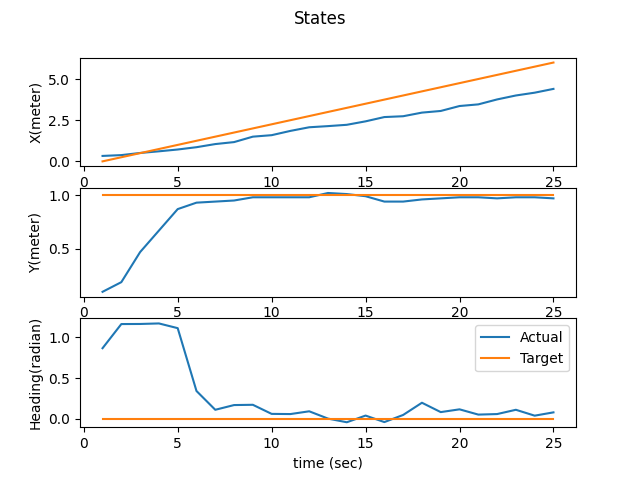
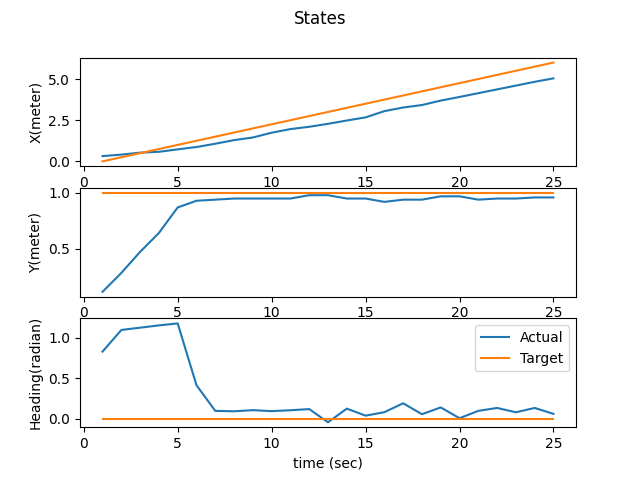
-

diff --git a/Project/Line/line_tracking_pwm_sl.py b/Project/Line/line_tracking_pwm_sl.py
@@ -30,7 +30,7 @@ sqrt=math.sqrt
 #x_target=1.1+0.7*sin((2*pi/200)*t_tra);
 #y_target=0.9+0.7*sin((4*pi/200)*t_tra);
 #theta_target=np.unwrap(atan2(2*pi*cos((pi*t_tra)/50), pi*cos((pi*t_tra)/100)));
-x_target=0.25*t_tra;
+x_target=0.15*t_tra;
 y_target=np.ones(sim_time+N);
 theta_target=np.zeros(sim_time+N);
 #====================================================================================================================================================================================
@@ -38,7 +38,7 @@ theta_target=np.zeros(sim_time+N);
 #============================================================Sytem variables========================================================================================================================
 # setting matrix_weights' variables
 Q_x = 100
-Q_y = 30000000000
+Q_y = 300000
 Q_theta =200
 R1 =0.01
 R2 =0.05
@@ -264,7 +264,7 @@ if __name__ == '__main__':
 
             t_predict=current_time+k-1
 
-            x_ref=0.25*t_predict
+            x_ref=0.15*t_predict
 
             y_ref=1
 
@@ -273,7 +273,7 @@ if __name__ == '__main__':
             #u_ref= sqrt( (49*pi**2*cos((pi*t_predict)/50)**2)/250000 + (49*pi**2*cos((pi*t_predict)/100)**2)/1000000 ) 
             #omega_ref=((49*pow(pi,3)*cos((pi*t_predict)/50)*sin((pi*t_predict)/100))/50000000 - (49*pow(pi,3)*cos((pi*t_predict)/100)*sin((pi*t_predict)/50))/25000000)/((49*pow(pi,2)*cos((pi*t_predict)/50)**2)/250000 + (49*pi**2*cos((pi*t_predict)/100)**2)/1000000)
 
-            u_ref=0.25
+            u_ref=0.15
 
             omega_ref=0
 
